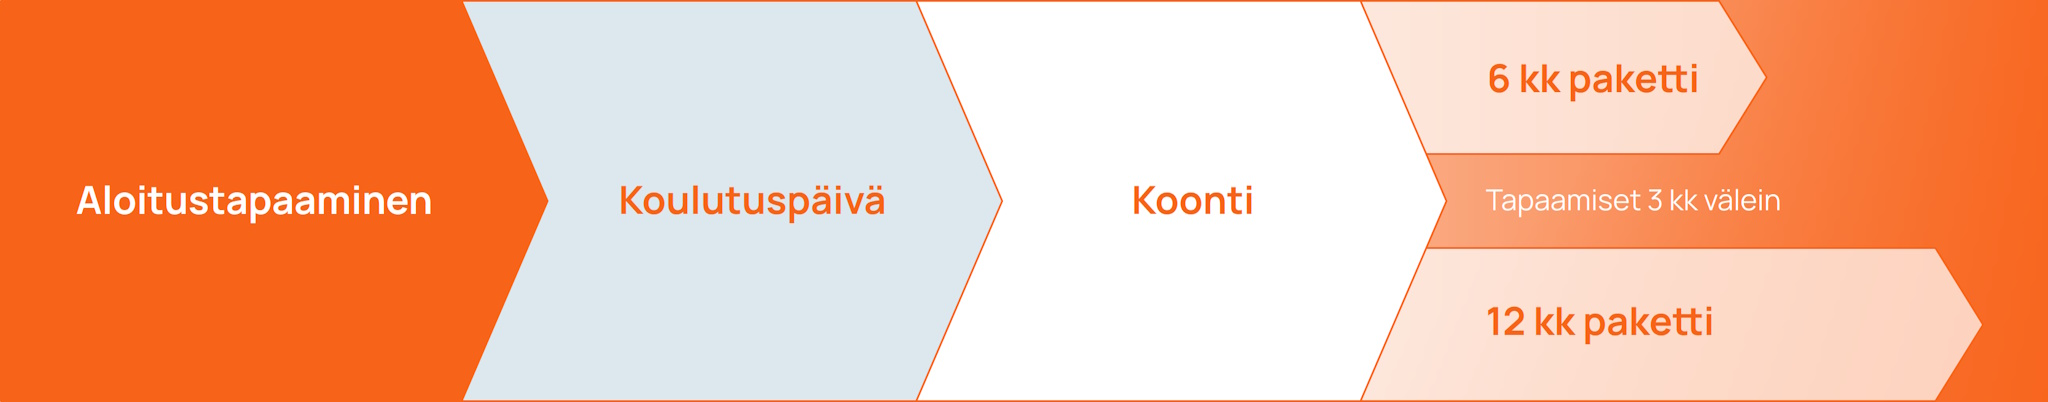
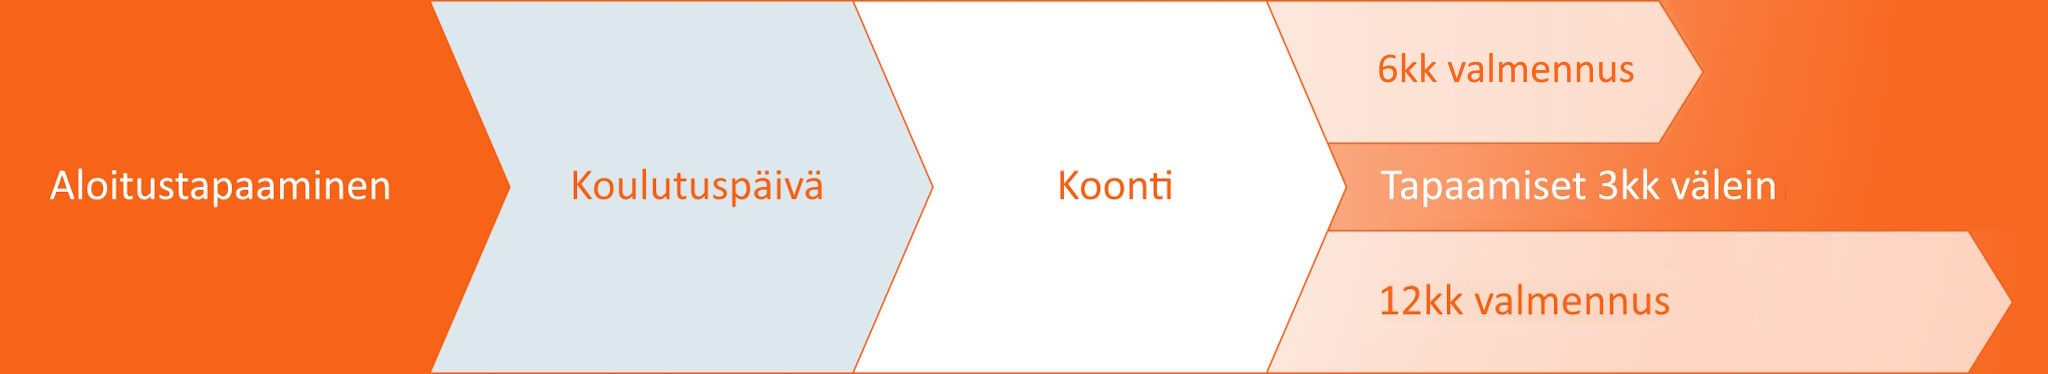
v8

diff --git a/assets/index-CekIceBR.js b/assets/index-CekIceBR.js
@@ -1,0 +1,55 @@
+import{j as t,B as a,T as i,c as f,d as j,a as g,C as v}from"./mui-B-OhoYBl.js";import{a as b,r as x,b as w}from"./vendor-Bm3pUBVl.js";(function(){const n=document.createElement("link").relList;if(n&&n.supports&&n.supports("modulepreload"))return;for(const e of document.querySelectorAll('link[rel="modulepreload"]'))l(e);new MutationObserver(e=>{for(const o of e)if(o.type==="childList")for(const m of o.addedNodes)m.tagName==="LINK"&&m.rel==="modulepreload"&&l(m)}).observe(document,{childList:!0,subtree:!0});function r(e){const o={};return e.integrity&&(o.integrity=e.integrity),e.referrerPolicy&&(o.referrerPolicy=e.referrerPolicy),e.crossOrigin==="use-credentials"?o.credentials="include":e.crossOrigin==="anonymous"?o.credentials="omit":o.credentials="same-origin",o}function l(e){if(e.ep)return;e.ep=!0;const o=r(e);fetch(e.href,o)}})();var h={},k=b;h.createRoot=k.createRoot,h.hydrateRoot=k.hydrateRoot;const F=s=>{const{title:n,subtitle:r,isScrolled:l}=s,e={mb:0,textTransform:"uppercase",transition:"color 0.2s ease",cursor:"pointer","&:hover":{textDecoration:"none"},userSelect:"none",color:l?"black":"white"};return t.jsxs(a,{sx:{display:"flex",alignItems:"center"},onClick:()=>{window.scrollTo({top:0,behavior:"smooth"})},children:[t.jsx(i,{variant:"body2",sx:{...e,fontWeight:"bold"},children:n}),t.jsxs(i,{variant:"body2",sx:{...e,display:["none","none","block"]},children:[t.jsx("span",{style:{marginLeft:"8px",marginRight:"8px"},children:"|"}),r]})]})},T=s=>{const{menuItems:n,isScrolled:r}=s,l={mb:0,textTransform:"uppercase",transition:"color 0.2s ease",cursor:"pointer","&:hover":{textDecoration:"none"},userSelect:"none",color:r?"primary.main":"white"};return n.length===0?null:t.jsx(a,{sx:{display:"flex"},children:n.map((e,o)=>t.jsx(i,{variant:"body2",sx:{...l,mr:o===n.length-1?0:1},onClick:()=>{var m;window.scrollTo({top:(((m=document.getElementById(e.id))==null?void 0:m.offsetTop)??0)-48,behavior:"smooth"})},children:e.title}))})},S=s=>{const{title:n,subtitle:r,menuItems:l}=s,[e,o]=x.useState(!1);return x.useEffect(()=>{const m=()=>{window.scrollY>250?o(!0):o(!1)};return window.addEventListener("scroll",m),()=>{window.removeEventListener("scroll",m)}},[]),t.jsxs(a,{component:"header",sx:{position:"fixed",top:0,left:0,right:0,height:"48px",display:"flex",alignItems:"center",justifyContent:"space-between",px:2,zIndex:100,backgroundColor:e?"white":"transparent",backgroundImage:e?"white":"linear-gradient(to bottom, rgba(64, 64, 64, 0.8) 0%, rgba(0, 0, 0, 0) 100%)",transition:"background-color background-image 0.3s ease",boxShadow:e?"0 2px 10px rgba(0, 0, 0, 0.1)":"none"},children:[t.jsx(F,{title:n,subtitle:r,isScrolled:e}),t.jsx(T,{menuItems:l,isScrolled:e})]})},I=s=>{const{id:n,children:r,sx:l}=s;return t.jsx(a,{id:n,sx:{width:"100%",mt:2,py:6,pb:4,backgroundImage:"linear-gradient(to bottom, rgba(0, 0, 0, 0.1) 0%, rgba(255, 255, 255, 1) 100%) ",...l},children:t.jsx(a,{sx:{maxWidth:"1200px",mx:"auto",px:2},children:r})})},c=s=>{const{imageUrl:n,imageAltText:r,children:l,sx:e,imageSide:o="left"}=s;return t.jsxs(a,{sx:{display:"flex",flexDirection:["column","column",o==="left"?"row-reverse":"row"],gap:2,width:"100%",maxWidth:"1200px",overflow:"hidden",mx:"auto",...e},children:[t.jsx(a,{sx:{width:["100%","100%","50%"],height:["content","content","inherit"],display:"flex",flexDirection:"column",justifyContent:"center",p:2},children:l}),t.jsx(a,{sx:{width:["100%","100%","50%"],height:"100%"},children:t.jsx("img",{src:n,alt:r,width:"100%"})})]})},C=s=>{const{children:n,color:r="black",backgroundColor:l="grey.200",sx:e}=s;return t.jsx(a,{sx:{m:2,px:4,py:4,backgroundColor:l,h4:{mb:0,fontStyle:"italic"},borderRadius:2,...e},children:t.jsx(i,{variant:"h4",color:r,children:n})})},y=s=>{const{name:n,role:r,imageUrl:l,quote:e,texts:o,sx:m}=s,u=t.jsx(a,{sx:{width:["60%","50%","30%","30%"],px:2},children:t.jsx("img",{src:l,width:"100%",style:{borderRadius:"50%"}})});return t.jsxs(a,{sx:m,children:[t.jsxs(a,{sx:{display:"flex",flexDirection:["column","column","row"],justifyContent:"flex-start",alignItems:"center",gap:2,mb:4},children:[u,t.jsxs(a,{sx:{width:["100%","100%","70%"],display:"flex",flexDirection:"column",justifyContent:"center",mt:-2},children:[t.jsx(i,{variant:"h3",color:"primary",children:n}),t.jsx(i,{variant:"body1",children:r}),t.jsx(C,{backgroundColor:"primary.main",color:"white",sx:{ml:-.25,width:"calc(100% + 0.25rem)"},children:e})]})]}),o.map(d=>t.jsx(i,{variant:"body1",sx:{mb:1},children:d}))]})},L=({overlay:s=!1,sx:n})=>s?t.jsx(a,{sx:{position:"absolute",top:0,left:0,right:0,bottom:0,background:"linear-gradient(90deg, rgba(255,255,255,0) 0%, rgba(255,255,255,0) 35%, rgba(248,99,26,0.6) 85%, rgba(248,99,26,0.8) 100%),linear-gradient(180deg, rgba(255,255,255,0) 0%, rgba(160,160,160,0.4) 50%, rgba(160,160,160,0.8) 100%)",...n}}):null,A=s=>{const{backgroundUrl:n,overlay:r=!1,sx:l,children:e}=s,o=n?{backgroundImage:`url(${n})`,backgroundSize:"cover",backgroundPosition:"center",backgroundRepeat:"no-repeat"}:{backgroundColor:"grey.300"};return t.jsxs(a,{sx:{display:"flex",flexDirection:"row",justifyContent:"center",alignItems:"center",position:"relative",height:"100vh",p:0,...o,...l},children:[t.jsx(L,{overlay:r}),t.jsx(a,{sx:{width:"100%",height:"100%",position:"relative",zIndex:1},children:e})]})},p=s=>{const{title:n,sectionId:r,sx:l}=s;return t.jsx(a,{id:r,sx:{width:"100%",backgroundColor:"grey.200",mt:8,p:4,...l},children:t.jsx(i,{variant:"h2",sx:{m:0,textAlign:"center"},children:n})})},B=s=>{const{backgroundColor:n="primary.main",color:r="white",texts:l,size:e="medium",sx:o}=s,m=e==="medium"?"10rem":"8rem",u=e==="medium"?"h3":"h4";return t.jsx(a,{sx:{width:m,height:m,display:"flex",flexDirection:"column",justifyContent:"center",alignItems:"center",backgroundColor:n,borderRadius:"50%",textAlign:"center",...o},children:t.jsx(i,{variant:u,color:r,sx:{mb:0},children:l.map(d=>t.jsx("span",{style:{display:"block",float:"none"},children:d}))})})},H=()=>{const s=[{id:"services",title:"Palvelumme"},{id:"about",title:"Meistä"},{id:"contacts",title:"Yhteystiedot"}];return t.jsxs(t.Fragment,{children:[t.jsxs(a,{id:"top",children:[t.jsx(S,{title:"SHIFT",subtitle:"Uusi terveempi työaika",menuItems:s}),t.jsx(A,{backgroundUrl:"office_people_chatting.jpg",overlay:!0,children:t.jsx(a,{sx:{width:"100%",height:"100%",display:"flex",flexDirection:"row",justifyContent:"center",alignItems:"flex-end",pb:["3rem","3rem","4rem","6rem"]},children:t.jsxs(a,{sx:{width:"fit-content",display:"flex",flexDirection:"column",justifyContent:"center",alignItems:"center",p:4},children:[t.jsx(a,{sx:{width:["112px","112px","128px","128px"],display:"flex",justifyContent:"center",alignItems:"center",mb:6},children:t.jsx("img",{src:"certificate.png",alt:"Uusi terveempi työaika",width:"100%"})}),t.jsx(a,{sx:{width:["325px","350px","425px","500px"]},children:t.jsx("img",{src:"logo.png",alt:"SHIFT",width:"100%"})}),t.jsx(i,{variant:"h1",color:"white",sx:{textAlign:"center",mt:2,maxWidth:"400px"},children:"yritysvalmennukset & inspiraatiopäivät"})]})})}),t.jsxs(c,{imageUrl:"sofa_sidelight.jpg",imageAltText:"Aurinkoinen sohvanurkkaus avotoimistossa",sx:{mt:2},children:[t.jsx(i,{variant:"h2",color:"primary",children:"Haaste"}),t.jsx(i,{variant:"body1",children:"Työssä uupuminen on hiljainen epidemia, joka uhkaa yritysten menestystä. Pitkäaikainen istuminen ja vähäinen fyysinen aktiivisuus johtavat terveysongelmiin, heikentävät työhyvinvointia ja laskevat tuottavuutta."}),t.jsx(i,{variant:"body1",sx:{mt:2},children:"Ihmisiltä puuttuu käsitys terveyttä edistävästä työajasta."})]}),t.jsxs(c,{imageSide:"right",imageUrl:"man_rides_a_bike.jpg",imageAltText:"Mies työmatkalla pyörällä",sx:{mt:2},children:[t.jsx(i,{variant:"h2",color:"primary",children:"Muutos"}),t.jsx(i,{variant:"body1",children:"Luomme kulttuurin, jossa suhtaudutaan uudella tavalla liikkumiseen. Tässä kulttuurissa ymmärretään millainen liikkuminen on terveyden kannalta tarpeeksi ja harjoitellaan uusia toimintamalleja."}),t.jsx(i,{variant:"body1",sx:{mt:2},children:"Uusi yhteinen työaika on terveellisempää, tehokkaampaa ja turvallisempaa."})]}),t.jsxs(c,{imageUrl:"training_session.jpg",imageAltText:"Koulutuspäivä meneillään",sx:{mt:2},children:[t.jsx(a,{sx:{width:"100%",display:"flex",flexDirection:"row",justifyContent:"center"},children:t.jsx(B,{texts:["Työaika voi","olla terveyttä","edistävää!"],sx:{mb:4}})}),t.jsx(i,{variant:"h2",color:"primary",children:"SHIFT-menetelmä"}),t.jsx(i,{variant:"body1",children:"Menetelmämme perustuu huippu-urheilun ja terveydenhuollon alalta saatuun kokemukseen. Se yhdistää omat havaintomme sekä aiheeseen liittyvän tutkimustiedon."}),t.jsx(i,{variant:"body1",sx:{mt:2},children:"Valmennuskohtaamisissamme varmistamme autenttisen ja rehellisen tilan, jossa voi tulla esiin heikkouksineen ja oivaltaa uutta."})]}),t.jsx(p,{title:"Palvelumme",sectionId:"services"}),t.jsx(a,{sx:{maxWidth:"1200px",mx:"auto",mt:2},children:t.jsxs(a,{sx:{p:2},children:[t.jsx(i,{variant:"h2",color:"primary",children:"Inspiraatiopäivät ja luennot (1-3h)"}),t.jsx(i,{variant:"body1",children:"Tarjoamme yrityksille ja yhteisöille inspiroivia hetkiä mielenkiintoisten aiheiden parissa. Aiheet, joista usein puhumme ovat esimerkiksi:"}),t.jsx(i,{variant:"h3",sx:{mt:2},children:'1. "Työssä jaksaminen ja palautuminen" - Petter Kukkonen'}),t.jsx(i,{variant:"body1",children:"Millaisia haasteita vaativa, paljon matkustamista sisältävä reissutyö pitää sisällään ja mitkä asiat voivat viedä uupumuksen äärelle? Aiheita ja oivalluksia palautumisesta käsitellään yhdistetyn maajoukkueen toimintaympäristön näkökulmasta."}),t.jsx(i,{variant:"h3",sx:{mt:2},children:'2. "Kaikki liike merkitsee" - Liis Kukkonen'}),t.jsx(i,{variant:"body1",children:"Ihmiset yleensä yliarvioivat toimintansa vaikutukset lyhyellä aikavälillä - he myös aliarvioivat tekojensa vaikutukset pitkällä aikavälillä. Meillä kaikilla on viikossa käytettävissämme seitsemän päivää ja vuorokaudessa 24 tuntia. Onko mahdollista parantaa terveyttä, tuottavuutta sekä lisätä aktiivisuutta työpäiviin niin, ettei siihen käytettäisi aikaa muun elämän kustannuksella? Liisin esitys lisää ymmärrystä liikkumisen hyödyistä sekä mielelle että keholle."}),t.jsx(i,{variant:"h3",sx:{mt:2},children:'3. "Yhdessä olemme enemmän" - tiimipäivä Liis ja Petter Kukkonen'}),t.jsx(i,{variant:"body1",children:"Luomme kulttuurin, jossa suhtaudutaan uudella tavalla tiimityöhön. Tässä kulttuurissa ymmärretään millainen vaikutus meistä jokaisella on työyhteisöön."}),t.jsx(i,{variant:"h2",color:"primary",sx:{mt:4},children:"Yritysvalmennukset"}),t.jsx(i,{variant:"body1",sx:{mb:2},children:"Toteutamme erimittaisia valmennuksia, joissa tavoite sovitaan yhdessä yrityksen kanssa."}),t.jsx("img",{src:"palvelumalli.jpg",alt:"Palvelumallimme",width:"100%"}),t.jsx(i,{variant:"body1",sx:{mt:2},children:"Ole yhteydessä tarkemmista yksityiskohdista!"})]})}),t.jsx(p,{title:"Meistä",sectionId:"about"}),t.jsx(a,{sx:{maxWidth:"1200px",mx:"auto",mt:2},children:t.jsxs(a,{sx:{p:2},children:[t.jsx(y,{name:"Petter Kukkonen",role:"Valmentaja",imageUrl:"petter.jpg",quote:`Elämä on jatkuvaa tasapainoilua, sama koskee suhdetta jaksamisen ja
+            palautumisen välillä. Tässä pystyn auttamaan sinua.`,texts:["Olen lähtöisin Lieksasta. Jyväskylään päädyin syksyllä 2004, jolloin aloitin liikuntatieteiden opiskelun yliopistossa. Urheilun ja liikunnan eri tasojen kanssa olen ollut tekemisissä koko ikäni. Lapsuudessani kävin läpi monipuolisen lajikirjon, mutta päädyin lopulta talvilajeihin, mäkihyppyyn ja yhdistettyyn. Ammattivalmentajana olen tehnyt 15-vuotisen uran. Nykyisessä työssäni kehitän Laajavuoren ulkoilualuetta sekä yritän löytää keinoja lasten liikunnan edistämiseksi.","Liikkuminen on minulla verissä. Vuodenajan mukaan tykkään juosta, pyöräillä sekä hiihtää. Kuntosalilla käyn kerran viikossa. Muita harrastuksia ovat lukeminen sekä kirjoittaminen. Teen myös asiantuntijatöitä Ylen Talvistudiossa ja tarjoan vuokrakoteja ihmisille.","Jaksamisen kannalta keskeistä on ymmärtää kehon kokonaisvaltaiseen rasitukseen vaikuttavat tekijät: työ / opiskelu, harrastukset ja muu arki. Kun yhden muuttujan kuorma kasvaa, kahden muun on annettava tilaa. Palautumisen näkökulmasta meillä tulee olla taito ja uskallus kuunnella kehon signaaleja. Ylikuormittunut elimistö on sama kuin kertyvä velka - se pitää lopulta maksaa takaisin."]},"petter"),t.jsx(y,{name:"Liis Kukkonen",role:"Fysioterapeutti",imageUrl:"liis.jpg",quote:"Haluan antaa panokseni sen eteen, että mahdollisimman moni tuntisi aktiivisemman elämäntavan hyödyt kehossaan ja samaan aikaan voisi muokata työaikaa mahdollisimman aktiiviseksi.",texts:["Olen koko työurani työskennellyt terveydenhuoltoalalla. Ammatiltani olen fysioterapeutti ja tällä hetkellä toimin myös esihenkilönä Mehiläisessä. SHIFT-valmennuksessa toimin asiantuntijana. Ammattini kautta näen usein kuinka tärkeässä roolissa elämäntapavalinnat ovat ihmisten hyvän terveyden ja hyvinvoinnin kannalta. Opittujen elämäntapojen ja arjen valintojen keskeinen merkitys koetaan valitettavasti myös silloin, kun kohtaamme terveydellisiä haasteita. Hyödynnän valmennuksissa myös esihenkilötyön kautta saatua kokemusta.","Vapaa ajallani tykkään hölkätä poluilla ja haastavissa maastoissa sekä osallistua polkujuoksutapahtumiin. Lisäksi hiihdän ja laskettelen paljon. Mielenkiinnon kohteitani ovat myös matkustaminen, kielet ja erilaiset kulttuurit."],sx:{mt:6}},"liis")]})})]}),t.jsxs(I,{id:"contacts",children:[t.jsx(i,{variant:"h3",color:"primary",children:"Yhteystiedot"}),t.jsx(a,{sx:{display:"flex",flexDirection:"row",justifyContent:"space-between"},children:t.jsxs(a,{sx:{display:"flex",flexDirection:["column","row"],gap:[2,6]},children:[t.jsxs(a,{children:[t.jsx(i,{variant:"h6",fontWeight:"bold",children:"Liis Kukkonen"}),t.jsx(i,{variant:"body1",children:"liiskukkonen@gmail.com"}),t.jsx(i,{variant:"body1",children:"+358 44 0522506"})]}),t.jsxs(a,{children:[t.jsx(i,{variant:"h6",fontWeight:"bold",children:"Petter Kukkonen"}),t.jsx(i,{variant:"body1",children:"petterkukkonen@gmail.com"}),t.jsx(i,{variant:"body1",children:"+358 44 0522506"})]})]})}),t.jsx(a,{children:t.jsxs(i,{variant:"body2",sx:{mt:6},children:[t.jsx("span",{style:{fontWeight:"bold"},children:"SHIFT"}),t.jsx("span",{style:{paddingLeft:"8px",paddingRight:"8px"},children:"|"}),t.jsx("span",{children:"UUSI TERVEEMPI TYÖAIKA"})]})})]})]})},D={values:{xs:0,sm:600,md:900,lg:1366,xl:1920}},P={primary:{main:"#F96F2A",light:"#fa8b54",dark:"#ae4d1d",contrastText:"#FFFFFF"},secondary:{main:"#333333",light:"#3F3F3F",dark:"#262626",contrastText:"#FFFFFF"},error:{main:"#BB2233",light:"#C62538",dark:"#AD2031",contrastText:"#FFFFFF"},warning:{main:"#D95B00",light:"#E55F00",dark:"#CC5500",contrastText:"#FFFFFF"},info:{main:"#0866C9",light:"#086ED3",dark:"#0760BA",contrastText:"#FFFFFF"},success:{main:"#538A01",light:"#5A9601",dark:"#4B7C01",contrastText:"#FFFFFF"}},W={fontFamily:"Lato, Arial",h1:{fontSize:"1.85rem",fontWeight:"normal",lineHeight:"2.25rem",padding:0,marginBottom:"1rem"},h2:{fontSize:"1.5rem",fontWeight:"normal",lineHeight:"2.25rem",padding:0,marginBottom:"1rem"},h3:{fontSize:"1.25rem",fontWeight:"normal",lineHeight:"1.875rem",padding:0,marginBottom:"0.75rem"},h4:{fontSize:"1.125rem",fontWeight:"normal",lineHeight:"1.75rem",padding:0,marginBottom:"0.75rem"},h5:{fontSize:"1rem",fontWeight:"normal",lineHeight:"1.5rem",padding:0,marginBottom:"0.5rem"},h6:{fontSize:"1rem",fontWeight:"normal",lineHeight:"1.5rem",padding:0,marginBottom:0},body1:{fontSize:"1rem",fontWeight:"normal",lineHeight:"1.5rem",padding:0,marginBottom:0},body2:{fontSize:"0.85rem",fontWeight:"normal",lineHeight:"1.5rem",padding:0,marginBottom:"0.25rem"}},E={breakpoints:D,palette:P,typography:W},M={typography:{fontFamily:"Lato, Arial"},components:{MuiCssBaseline:{styleOverrides:`
+      ::-webkit-scrollbar {
+        width: 3px;
+      }
+      ::-webkit-scrollbar-thumb {
+        background-color: grey;
+        border-radius: 2;
+      }
+      @font-face {
+        font-display: swap;
+        font-family: 'Lato';
+        font-style: normal;
+        font-weight: 400;
+        src: local(''), url('/assets/fonts/lato-v24-latin-ext-400.woff2') format('woff2');
+      }
+      @font-face {
+        font-display: swap;
+        font-family: 'Lato';
+        font-style: italic;
+        font-weight: 400;
+        src: local(''), url('/assets/fonts/lato-v24-latin-ext-400italic.woff2') format('woff2');
+      }
+      @font-face {
+        font-display: swap;
+        font-family: 'Lato';
+        font-style: normal;
+        font-weight: 500;
+        src: local(''), url('/assets/fonts/lato-v24-latin-ext-700.woff2') format('woff2');
+      }
+      @font-face {
+        font-display: swap;
+        font-family: 'Lato';
+        font-style: italic;
+        font-weight: 500;
+        src: local(''), url('/assets/fonts/lato-v24-latin-ext-700italic.woff2') format('woff2');
+      }
+      @font-face {
+        font-display: swap;
+        font-family: 'Lato';
+        font-style: normal;
+        font-weight: 700;
+        src: local(''), url('/assets/fonts/lato-v24-latin-ext-700.woff2') format('woff2');
+      }
+      @font-face {
+        font-display: swap;
+        font-family: 'Lato';
+        font-style: italic;
+        font-weight: 700;
+        src: local(''), url('/assets/fonts/lato-v24-latin-ext-900italic.woff2') format('woff2');
+      }
+        p, h1, h2, h3, h4, h5, h6, body1, body2 {
+          cursor: default;
+        }
+      `}}},U=f(j(E,M)),z=()=>t.jsxs(g,{theme:U,children:[t.jsx(v,{}),t.jsx(H,{})]});h.createRoot(document.getElementById("root")).render(t.jsx(w.StrictMode,{children:t.jsx(z,{})}));

diff --git a/index.html b/index.html
@@ -9,7 +9,7 @@
       rel="stylesheet"
       href="https://fonts.googleapis.com/css?family=Roboto:300,400,500,700&display=swap"
     />
-    <script type="module" crossorigin src="assets/index-Aik_NKzg.js"></script>
+    <script type="module" crossorigin src="assets/index-CekIceBR.js"></script>
     <link rel="modulepreload" crossorigin href="assets/vendor-Bm3pUBVl.js">
     <link rel="modulepreload" crossorigin href="assets/mui-B-OhoYBl.js">
     <link rel="stylesheet" crossorigin href="assets/index-B_NqIhTU.css">
